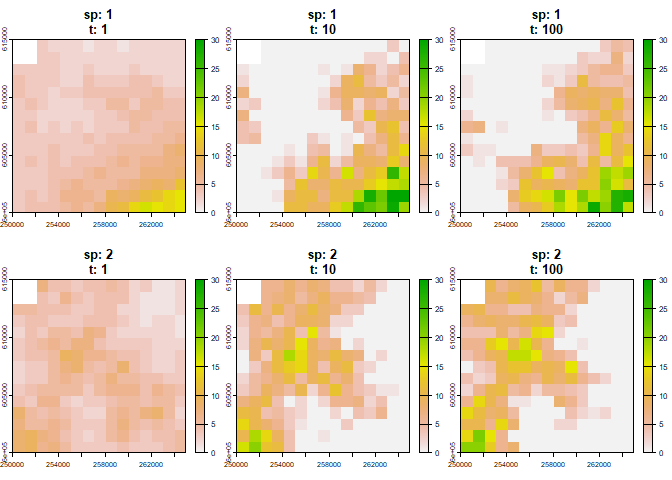
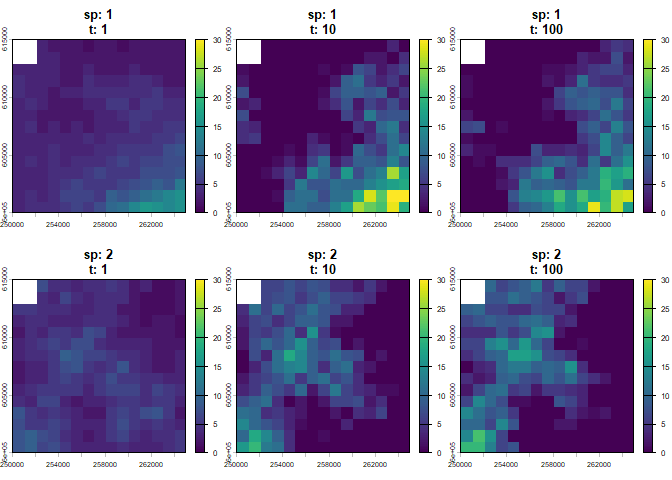
add deepwiki

diff --git a/README.md b/README.md
@@ -11,6 +11,8 @@ state and is being actively
 developed.](https://www.repostatus.org/badges/latest/active.svg)](https://www.repostatus.org/#active)
 [![R-CMD-check](https://github.com/popecol/mrangr/actions/workflows/R-CMD-check.yaml/badge.svg)](https://github.com/popecol/mrangr/actions/workflows/R-CMD-check.yaml)
 [![codecov](https://codecov.io/github/popecol/mrangr/graph/badge.svg?token=LF3PYFLBDN)](https://codecov.io/github/popecol/mrangr)
+[![Ask
+DeepWiki](https://deepwiki.com/badge.svg)](https://deepwiki.com/popecol/mrangr)
 <!-- badges: end -->
 
 The **mrangr** package is designed to simulate metacommunities within a